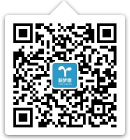
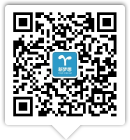
app/views/contacts/show.html.erb

diff --git a/app/assets/stylesheets/style.css b/app/assets/stylesheets/style.css
@@ -69,9 +69,9 @@
 	.contact-content-fa p .fa{ font-size: 1.384em; line-height: 1.384em; vertical-align: middle; text-indent: 0; position: absolute; left:-1.277em; top: 0;}
 	.contact-content-fa p a{ color: #999999;}
 	.contact-content-fa p a:hover{ color: #0088cc;}
-	.new-dream-weixin img{ position: absolute; left: -4px; top: 1.5em; z-index: 2; display: none;}
+	.new-dream-weixin img{ position: absolute; left: -4px; bottom: 1.5em; z-index: 2; display: none;}
 
-	
+
 	/* info
 	-------------------------------------------------------------------------------- */
 	.info-left-bar{ width: 34.3%; float: left;}
@@ -157,7 +157,7 @@
 	.nav-ul li{font-size: 8px;}
 	.header{ padding-top: 2em;}
 	.logo{ width: 17%;}
-	.main-content{ margin-top: 0.5em;}
+	.main-content{ margin-top: 0.5em; margin-bottom: 3em;}
 	.pagination span,
 	.pagination em,
 	.pagination a{font-size: 8px;}
